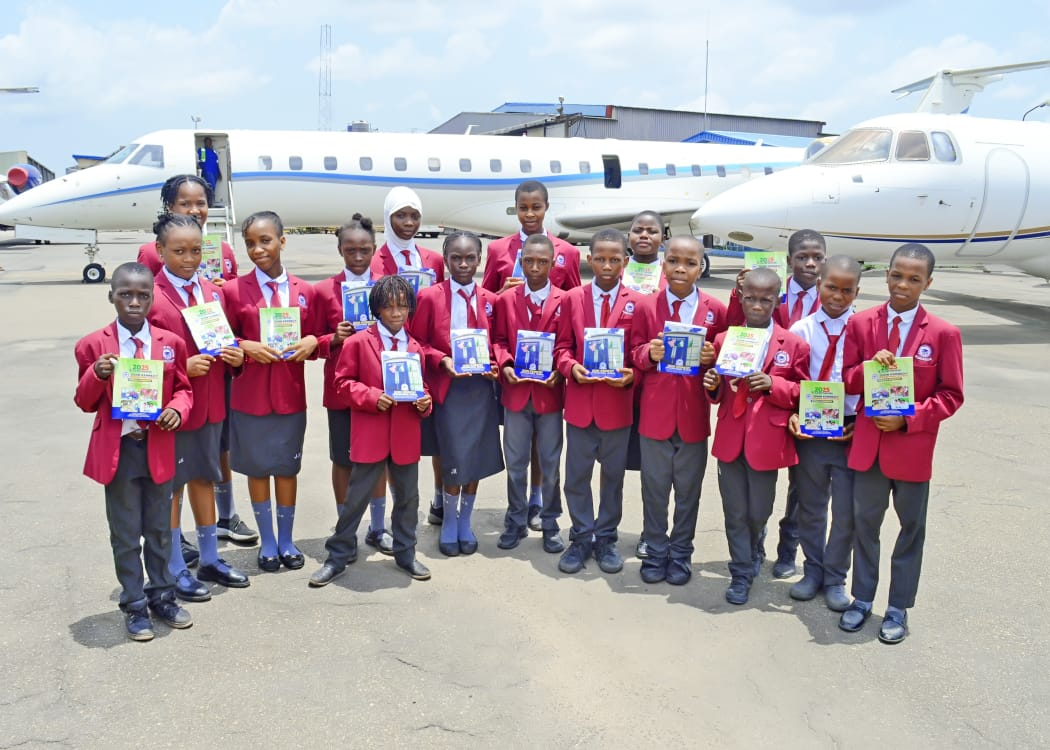
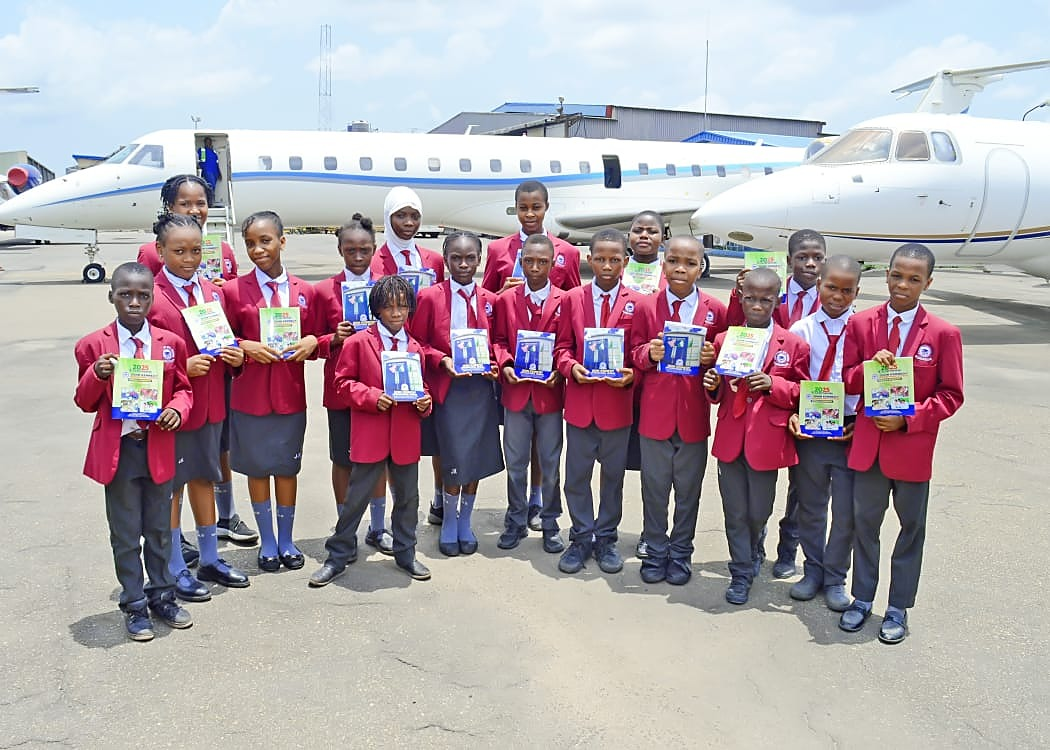
Sharpen/upscale images, add walking-student loader animation, popup shows every time
Images:
- Several full-bleed hero/page-banner photos were only ~1000-1280px wide
  being stretched across 1920px+ viewports (visibly soft/blurry), and a
  few were palette-mode PNGs causing color banding on photographic
  content. Converted all to true RGB, upscaled the full-bleed ones to
  1920px with a compensating unsharp mask, and applied a lighter sharpen
  pass to the rest (used at smaller display sizes, didn't need upscaling)
- Converted 4 photos from PNG to JPEG — as lossless truecolor PNG these
  had ballooned to 2-5MB each; JPEG at quality 92 looks visually
  equivalent at 400-600KB, which matters given this site's stated
  Nigerian-mobile-user audience
- Caught and fixed a filename collision I introduced mid-edit: converting
  about/img11.png to img11.jpeg would have silently overwritten a
  different, unrelated real photo already at that exact path. Recovered
  the original from git history before it was lost and renamed the
  converted file instead
- Added next.config.ts images.qualities (Next.js 16 requires explicit
  whitelisting) and set quality=90 on the two full-bleed Image usages
  (Hero, PageHeader) so Next's re-encoding doesn't add further softness
  on top of an already-limited source

Loading screen:
- Added a walking-student-with-backpack SVG animation to the intro
  overlay, walking along the progress track in sync with the actual
  loading duration (position driven by the existing IntroLoader interval,
[…]

diff --git a/app/layout.tsx b/app/layout.tsx
@@ -30,14 +30,24 @@ export default function RootLayout({ children }: { children: React.ReactNode }) 
   return (
     <html lang="en" suppressHydrationWarning>
       <head>
+        {/* Runs before first paint: if this tab already completed the
+            intro this session, mark <html> so the CSS rule below hides
+            the overlay before it ever paints — otherwise IntroLoader's
+            useEffect (which only runs after hydration) would let it
+            flash briefly on every repeat navigation within the session. */}
+        <script
+          dangerouslySetInnerHTML={{
+            __html: `try{if(sessionStorage.getItem('jkis-intro-v2-complete')){document.documentElement.classList.add('intro-seen')}}catch(e){}`,
+          }}
+        />
       </head>
       <body className="min-h-screen bg-ivory-100 text-charcoal-900">
         {/* Server-rendered overlay markup — present in the very first HTML
             response alongside the real content, so there is no flash of
-            content before it: both exist together from first paint, the
-            overlay just visually covers the page via z-index until the
-            script below fades it out. Hidden instantly via CSS (see
-            html.intro-seen rule above) on repeat navigations this session. */}
+            content on first paint: both exist together from first paint,
+            the overlay just visually covers the page via z-index until
+            IntroLoader fades it out. Hidden instantly via CSS (see
+            html.intro-seen rule) on repeat navigations this session. */}
         <div id="site-intro-overlay" aria-hidden="true">
           <div className="intro-mark">
             {/* Plain <img>, not next/image: this needs to exist in the raw
@@ -47,8 +57,43 @@ export default function RootLayout({ children }: { children: React.ReactNode }) 
             {/* eslint-disable-next-line @next/next/no-img-element */}
             <img src="/images/logo.png" alt="" />
             <span className="intro-wordmark">John Kennedy International Schools</span>
-            <span className="intro-progress-track">
-              <span className="intro-progress-fill" />
+            <span className="intro-progress-row">
+              <span className="intro-walker" id="intro-walker">
+                {/* A little student character with a schoolbag, walking
+                    along the progress bar as it fills — purely
+                    decorative (aria-hidden on the parent overlay), and
+                    hidden entirely under prefers-reduced-motion. */}
+                <svg viewBox="0 0 30 38" fill="none" xmlns="http://www.w3.org/2000/svg">
+                  <g className="intro-walker-body">
+                    {/* backpack */}
+                    <rect x="16" y="11" width="8" height="11" rx="2.5" fill="var(--gold-400)" />
+                    <rect x="17.5" y="13.5" width="5" height="2" rx="1" fill="var(--navy-950)" opacity="0.25" />
+                    {/* back arm (behind body) */}
+                    <g className="walker-arm walker-arm-left">
+                      <rect x="7" y="14" width="3" height="9" rx="1.5" fill="var(--ivory-50)" />
+                    </g>
+                    {/* legs */}
+                    <g className="walker-leg walker-leg-left">
+                      <rect x="8.5" y="23" width="3.5" height="11" rx="1.5" fill="var(--navy-800)" />
+                    </g>
+                    <g className="walker-leg walker-leg-right">
+                      <rect x="13" y="23" width="3.5" height="11" rx="1.5" fill="var(--navy-700)" />
+                    </g>
+                    {/* body */}
+                    <rect x="8" y="12" width="9" height="13" rx="3.5" fill="var(--ivory-50)" />
+                    {/* head */}
+                    <circle cx="12.5" cy="6.5" r="5.5" fill="var(--ivory-50)" />
+                    <path d="M7.5 5.5c1-2.5 3-3.5 5-3.5s4 1 5 3.5" stroke="var(--navy-950)" strokeWidth="1.4" strokeLinecap="round" opacity="0.35" />
+                    {/* front arm */}
+                    <g className="walker-arm walker-arm-right">
+                      <rect x="16.5" y="14" width="3" height="9" rx="1.5" fill="var(--ivory-50)" />
+                    </g>
+                  </g>
+                </svg>
+              </span>
+              <span className="intro-progress-track">
+                <span className="intro-progress-fill" />
+              </span>
             </span>
             <span id="intro-progress-value" className="intro-progress-value">Loading 0%</span>
           </div>

diff --git a/app/globals.css b/app/globals.css
@@ -183,9 +183,92 @@ html.intro-seen #site-intro-overlay {
   animation: intro-mark-in 0.7s 0.15s cubic-bezier(0.22, 1, 0.36, 1) both;
 }
 
-#site-intro-overlay .intro-progress-track {
+#site-intro-overlay .intro-progress-row {
+  position: relative;
   margin-top: 1.75rem;
   width: min(240px, 70vw);
+}
+
+#site-intro-overlay .intro-walker {
+  position: absolute;
+  bottom: 9px;
+  left: 0;
+  width: 30px;
+  height: 38px;
+  transform: translateX(-15px);
+  transition: left 50ms linear;
+}
+
+#site-intro-overlay .intro-walker svg {
+  width: 100%;
+  height: 100%;
+  display: block;
+}
+
+#site-intro-overlay .walker-leg,
+#site-intro-overlay .walker-arm {
+  transform-box: fill-box;
+}
+
+#site-intro-overlay .walker-leg-left {
+  transform-origin: 50% 0%;
+  animation: walker-swing-a 0.5s ease-in-out infinite alternate;
+}
+
+#site-intro-overlay .walker-leg-right {
+  transform-origin: 50% 0%;
+  animation: walker-swing-b 0.5s ease-in-out infinite alternate;
+}
+
+#site-intro-overlay .walker-arm-left {
+  transform-origin: 50% 0%;
+  animation: walker-swing-b 0.5s ease-in-out infinite alternate;
+}
+
+#site-intro-overlay .walker-arm-right {
+  transform-origin: 50% 0%;
+  animation: walker-swing-a 0.5s ease-in-out infinite alternate;
+}
+
+#site-intro-overlay .intro-walker-body {
+  animation: walker-bob 0.5s ease-in-out infinite alternate;
+}
+
+@keyframes walker-swing-a {
+  from {
+    transform: rotate(-22deg);
+  }
+  to {
+    transform: rotate(22deg);
+  }
+}
+
+@keyframes walker-swing-b {
+  from {
+    transform: rotate(22deg);
+  }
+  to {
+    transform: rotate(-22deg);
+  }
+}
+
+@keyframes walker-bob {
+  from {
+    transform: translateY(0);
+  }
+  to {
+    transform: translateY(-2px);
+  }
+}
+
+@media (prefers-reduced-motion: reduce) {
+  #site-intro-overlay .intro-walker {
+    display: none;
+  }
+}
+
+#site-intro-overlay .intro-progress-track {
+  width: 100%;
   height: 5px;
   background: color-mix(in srgb, var(--ivory-50) 20%, transparent);
   border: 1px solid color-mix(in srgb, var(--gold-300) 35%, transparent);
@@ -195,9 +278,25 @@ html.intro-seen #site-intro-overlay {
 #site-intro-overlay .intro-progress-fill {
   height: 100%;
   width: 0%;
-  background: var(--gold-400);
+  background: linear-gradient(
+    90deg,
+    var(--gold-500) 0%,
+    var(--gold-300) 50%,
+    var(--gold-500) 100%
+  );
+  background-size: 200% 100%;
   box-shadow: 0 0 12px color-mix(in srgb, var(--gold-400) 70%, transparent);
   transition: width 50ms linear;
+  animation: intro-progress-shimmer 1.4s linear infinite;
+}
+
+@keyframes intro-progress-shimmer {
+  from {
+    background-position: 200% 0;
+  }
+  to {
+    background-position: -200% 0;
+  }
 }
 
 #site-intro-overlay .intro-progress-value {
@@ -223,6 +322,7 @@ html.intro-seen #site-intro-overlay {
 @media (prefers-reduced-motion: reduce) {
   #site-intro-overlay .intro-progress-fill {
     transition: none;
+    animation: none;
   }
 }
 .crest-divider {

diff --git a/config/hero-slides-config.ts b/config/hero-slides-config.ts
@@ -1,4 +1,3 @@
-import { schoolImages } from "./images-config";
 import { schoolConfig } from "./school-config";
 import { admissionsConfig } from "./admissions-config";
 
@@ -14,7 +13,7 @@ export interface HeroSlide {
 
 export const heroSlides: HeroSlide[] = [
   {
-    image: "/images/hero/hero11.png",
+    image: "/images/hero/hero11.jpeg",
     alt: "Students at John Kennedy International Schools",
     eyebrow: schoolConfig.name,
     headline: schoolConfig.tagline.split(". ").map((line, i, arr) => (i < arr.length - 1 ? `${line}.` : line)),
@@ -24,7 +23,7 @@ export const heroSlides: HeroSlide[] = [
     secondaryCta: { label: "Explore Our School", href: "/about" },
   },
   {
-    image:"/images/hero/hro1.png" ,
+    image:"/images/hero/hro1.jpeg" ,
     alt: "Students engaged in classroom learning",
     eyebrow: "Academic Excellence",
     headline: ["A Clear Path", "From Nursery to Senior Secondary"],
@@ -34,7 +33,7 @@ export const heroSlides: HeroSlide[] = [
     secondaryCta: { label: "Why Choose Us", href: "/about" },
   },
   {
-    image: "/images/about/img11.png",
+    image: "/images/about/img11-schoollife.jpeg",
     alt: "Students taking part in school activities",
     eyebrow: "Beyond the Classroom",
     headline: ["A Vibrant School Life", "That Builds Character"],
@@ -44,7 +43,7 @@ export const heroSlides: HeroSlide[] = [
     secondaryCta: { label: "See Our Sections", href: "/about" },
   },
   {
-    image: "/images/hero/hro4.png",
+    image: "/images/hero/hro4.jpeg",
     alt: "A welcoming school environment for new families",
     eyebrow: admissionsConfig.announcement.title,
     headline: ["Give Your Child", "A Strong Foundation"],

diff --git a/components/home/AdmissionsPopup.tsx b/components/home/AdmissionsPopup.tsx
@@ -12,37 +12,27 @@ export const AdmissionsPopup: React.FC = () => {
   const [isOpen, setIsOpen] = useState(false);
 
   useEffect(() => {
-    const hasSeenPopup = localStorage.getItem(admissionsConfig.popup.localStorageKey);
+    if (!admissionsConfig.isOpen) return;
 
-    if (hasSeenPopup || !admissionsConfig.isOpen) return;
-
-    let popupTimer: ReturnType<typeof setTimeout> | undefined;
-    const showPopupAfterLoader = () => {
-      setIsOpen(true);
-    };
+    // Shown every time the homepage finishes loading (not gated by a
+    // "seen once, never again" flag) — it opens right as the intro loader
+    // completes, and stays open until the visitor closes it themselves.
+    const showPopup = () => setIsOpen(true);
 
     if (sessionStorage.getItem('jkis-intro-v2-complete')) {
-      showPopupAfterLoader();
-      return () => {
-        if (popupTimer) clearTimeout(popupTimer);
-      };
+      showPopup();
+      return;
     }
 
-    window.addEventListener('jkis-intro-complete', showPopupAfterLoader);
-
-    return () => {
-      window.removeEventListener('jkis-intro-complete', showPopupAfterLoader);
-      if (popupTimer) clearTimeout(popupTimer);
-    };
+    window.addEventListener('jkis-intro-complete', showPopup);
+    return () => window.removeEventListener('jkis-intro-complete', showPopup);
   }, []);
 
   const handleClose = () => {
     setIsOpen(false);
-    localStorage.setItem(admissionsConfig.popup.localStorageKey, 'true');
   };
 
   const handleRegister = () => {
-    localStorage.setItem(admissionsConfig.popup.localStorageKey, 'true');
     window.location.href = admissionsConfig.registrationUrl;
   };
 

diff --git a/components/layout/IntroLoader.tsx b/components/layout/IntroLoader.tsx
@@ -22,6 +22,8 @@ export function IntroLoader() {
     document.documentElement.style.overflow = 'hidden';
 
     const fill = overlay.querySelector<HTMLElement>('.intro-progress-fill');
+    const walker = document.getElementById('intro-walker');
+    const track = overlay.querySelector<HTMLElement>('.intro-progress-track');
     const value = document.getElementById('intro-progress-value');
     const startedAt = Date.now();
     const progressTimer = window.setInterval(() => {
@@ -30,6 +32,9 @@ export function IntroLoader() {
 
       if (fill) fill.style.width = `${percent}%`;
       if (value) value.textContent = `Loading ${percent}%`;
+      if (walker && track) {
+        walker.style.left = `${progress * track.clientWidth}px`;
+      }
 
       if (progress >= 1) window.clearInterval(progressTimer);
     }, 50);

diff --git a/app/school-life/page.tsx b/app/school-life/page.tsx
@@ -2,7 +2,6 @@ import { Reveal } from '@/components/motion/Reveal';
 import { Container } from '@/components/ui/Container';
 import { SectionHeading } from '@/components/ui/SectionHeading';
 import { PageHeader } from '@/components/ui/PageHeader';
-import { Button } from '@/components/ui/Button';
 import { ImageCard } from '@/components/ui/ImageCard';
 import { schoolImages } from '@/config/images-config';
 import { Heart, Trophy, Music, Palette, Users, BookOpen } from 'lucide-react';

diff --git a/components/layout/Footer.tsx b/components/layout/Footer.tsx
@@ -3,9 +3,7 @@ import Link from 'next/link';
 import Image from 'next/image';
 import { schoolConfig } from '@/config/school-config';
 import { navigationConfig } from '@/config/navigation-config';
-import { admissionsConfig } from '@/config/admissions-config';
 import { MapPin, Phone } from 'lucide-react';
-import { Button } from '@/components/ui/Button';
 import { Container } from '@/components/ui/Container';
 import { SocialLinks } from '@/components/layout/SocialLinks';
 

diff --git a/next.config.ts b/next.config.ts
@@ -10,6 +10,10 @@ const nextConfig: NextConfig = {
         hostname: "images.unsplash.com",
       },
     ],
+    // 90 is used for full-bleed hero/page-banner images (see Hero.tsx and
+    // PageHeader.tsx) since these display much larger than the default
+    // 75 comfortably supports; 75 remains the default elsewhere.
+    qualities: [75, 90],
   },
 };
 

diff --git a/config/images-config.ts b/config/images-config.ts
@@ -37,7 +37,7 @@ export const schoolImages = {
 
   // Gallery images
   gallery: {
-    learning: "/images/hero/hro1.png",
+    learning: "/images/hero/hro1.jpeg",
     students: "/images/gallery/studs.jpeg",
     classroom: "/images/gallery/comm.jpeg",
     sports: "https://images.unsplash.com/photo-1571019614242-c5c5dee9f50b?auto=format&fit=crop&w=600&q=80",

diff --git a/components/home/Hero.tsx b/components/home/Hero.tsx
@@ -66,6 +66,7 @@ export const Hero: React.FC = () => {
               fill
               priority={index === 0}
               sizes="100vw"
+              quality={90}
               className="object-cover"
             />
           </motion.div>

diff --git a/components/ui/PageHeader.tsx b/components/ui/PageHeader.tsx
@@ -51,6 +51,7 @@ export const PageHeader: React.FC<PageHeaderProps> = ({
             fill
             priority
             sizes="100vw"
+            quality={90}
             className="object-cover"
             aria-hidden="true"
           />
